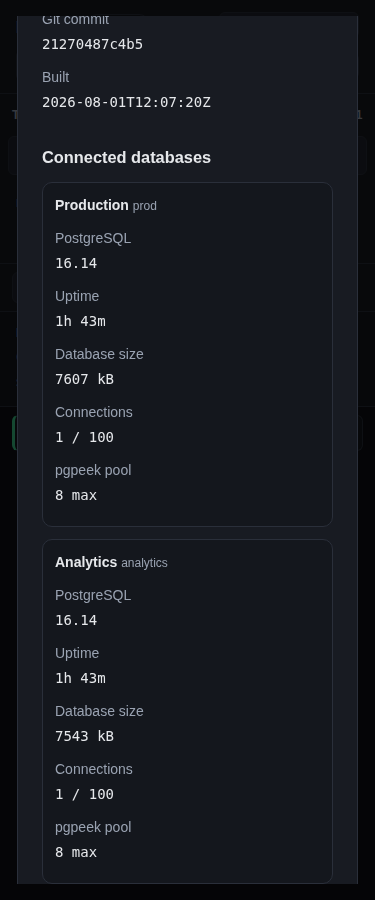
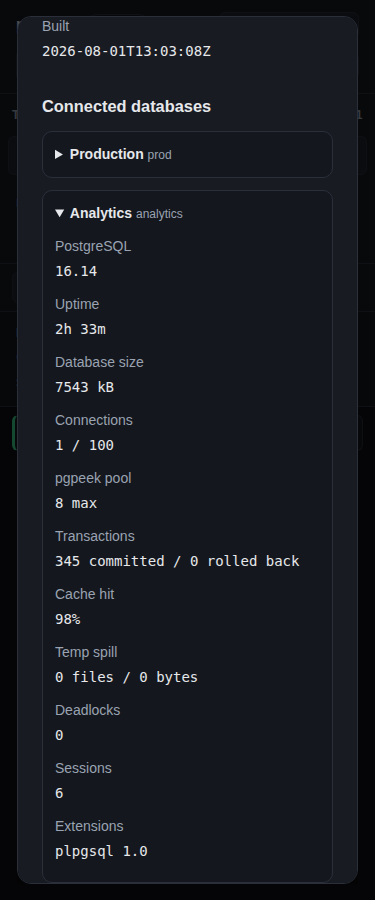
docs: synchronize diagnostics contracts

diff --git a/README.md b/README.md
@@ -450,7 +450,7 @@ Two ways:
 
 | Method & path                                 | Purpose                                        |
 | --------------------------------------------- | ---------------------------------------------- |
-| `GET /api/databases`                          | List configured databases with safe runtime details (version, uptime, size, and connection limits). |
+| `GET /api/databases`                          | List configured databases with safe runtime details (version, uptime, size, workload/cache/temp/deadlock/session counters, extensions, and connection limits). Core PostgreSQL does not expose portable host CPU, RAM, or free-disk metrics. |
 | `GET /api/user`                               | Current detected user (`anonymous` or Cloudflare Access email).    |
 | `POST /api/query?db=<id>`                     | Run a query → JSON `{columns, rows, …}`.       |
 | `POST /api/export?db=<id>`                    | Run a query → CSV download.                    |
